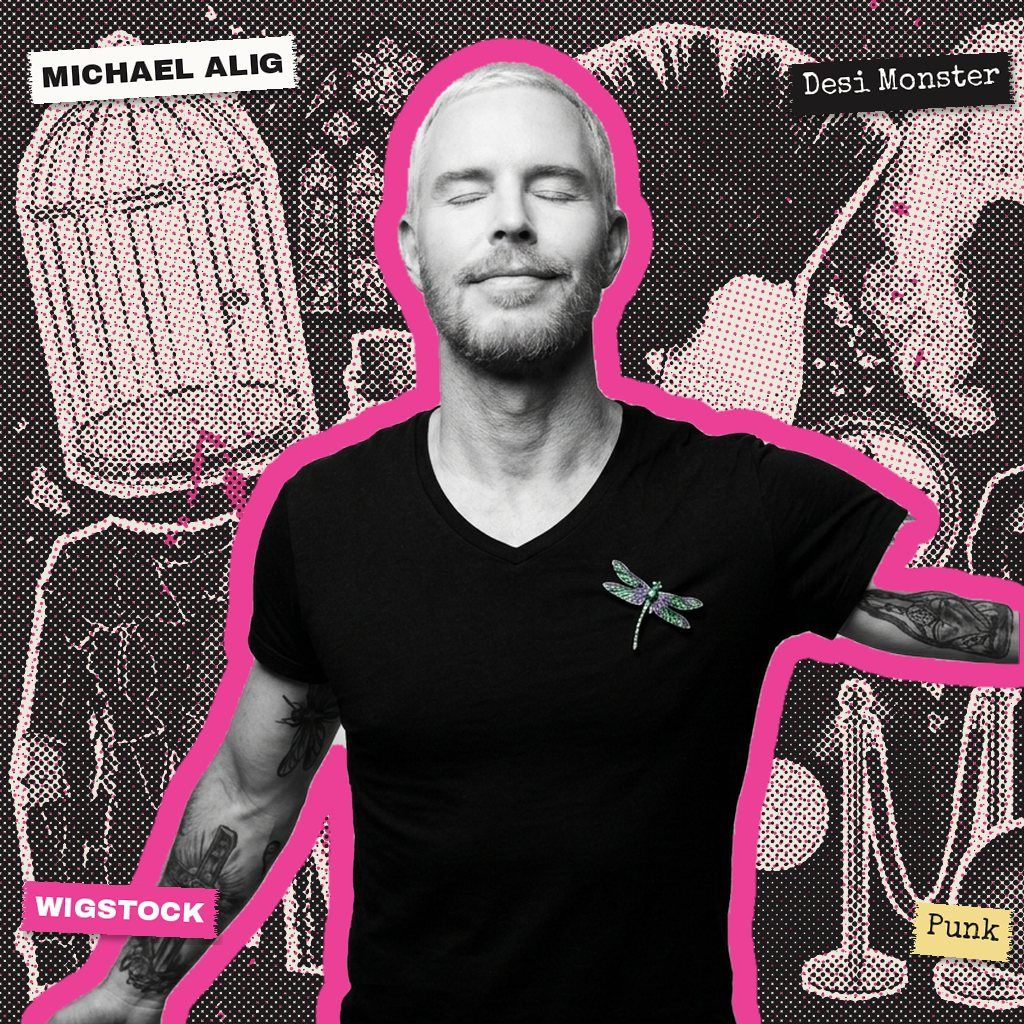
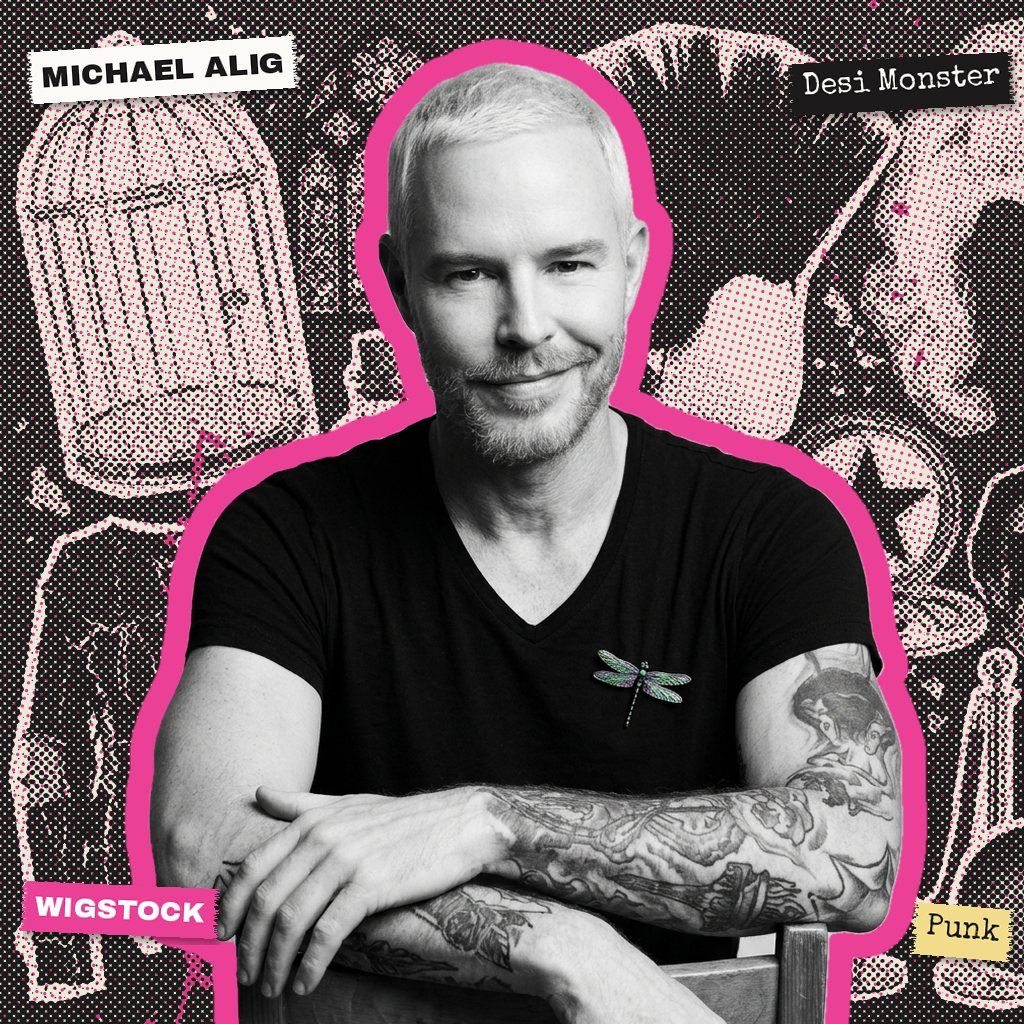
S01E06: new Waltpaper polaroid pose (backwards on a chair)
Claude-Session: https://claude.ai/code/session_011MVAnQFHQ9Wv2cvGWey2uC

diff --git a/AGENTS.md b/AGENTS.md
@@ -74,7 +74,7 @@
 - Tips (Tipeee - Lisa 22 Oct 2026: back from Ko-fi because Tipeee takes cards through Adyen, an EU payment company): the TipBox (src/components/tip-box.tsx, TIPEEE_URL = https://en.tipeee.com/afterparty) sits in SiteFooter on every page, on the right with all the footer text on the left (no heading or text next to the box; on phones the box goes under the text) (id="tip"; no "Tip the fan page" text link in the footer - Lisa removed it, 23 Oct) - no separate boxes on Home or About. The box (Lisa, 23 Oct) uses the design first made for Ko-fi: the round pink cocktail badge (src/assets/afterparty-drink-badge.png - never Lisa's face), "Buy a drink for the Afterparty team", "Once / or monthly", "Any amount - you choose it on Tipeee", a pink "tip!" button that is a plain link, and the small Tipeee/fan-project line under the box. Never load Tipeee scripts, iframes or widgets (Privacy section 4, Terms quick facts and Under the hood describe it that way). Ko-fi is no longer used on the site.
 - Buttons and chips (Lisa, 21 Oct): every filter/sort chip that sets aria-pressed (rounded-full) is solid black with white letters when selected ("All" pre-selected) and all pink with white letters on hover (global rules in styles.css). Afterparty-page episode buttons (Lisa, 23 Oct): Afterparty is solid pink, Watch / Listen are black with white letters; on hover all three turn to paper with black text (plain links - never wrap them in the ghost Button, whose hover:bg-transparent made the white text vanish).
 - Polaroids (Lisa, 22 Oct 2026): every guest, from now on every new episode too, gets a polaroid. 1) A new-style Gemini studio portrait (from a WOW screenshot, re-drawn, a different pose each time, black and white with ONE element in colour, never name the guest in the prompt) saved as "<code> <Guest> box portrait.jpeg". 2) scripts/polaroid-box.py makes the square photo: a pink/black halftone of that episode's own objects-only references collage, torn scraps typed with its top references (no hosts), the portrait cut out with a 24px pink sticker edge; where the portrait has a clean straight cut on a side (the figure runs out of its own picture), that cut lines up with the photo's edge with no pink outline there - both sides cut: edge to edge (Lisa, 22 Oct 2026, automatic in the script). 3) scripts/polaroid-frame.py frames it as an instant print (name, one guest description line, "<CODE> · THE AFTERPARTY"). Save BOTH ("<code> <Guest> polaroid photo.jpg" and "<code> <Guest> polaroid.jpg") in the episode folder AND in the "Polaroids" folder of the project folder. The square photo is the episode box on Home and the Afterparty page - and the polaroid box keeps everything the old box showed: season/episode line, guest name, runtime, references (pink) and mentions (marker yellow), written in the white strip under the photo (Lisa, 22 Oct); the framed print is a keepsake kept in the folders (the Tipeee thank-you gift idea is dropped for now - Lisa, 22 Oct; don't build it). The framed print carries the guest line from scripts/episode-guests.json ("line", taken from the episode page header). Episode-page header in this style: ON HOLD (Lisa, 22 Oct) - the background generator needs work first; keep page headers picture-free.
-- No repeated poses (Lisa, 26 Oct 2026, every guest from now on): before writing a new portrait prompt, look at all existing polaroids side by side (a contact sheet of src/assets/polaroid-*.jpg) and pick a pose that is clearly different from every one of them. Hand on chin / cheek / face is USED UP (James, Nick Egan, Patricia Field, Peter Gatien, Sally Randall, William Norwich, Joey Arias, Chi Chi Valenti, Lisa Edelstein) - always add "no hand touching the face or chin" to the prompt. Poses already taken, never repeat exactly: hand in hair (Amanda, Dianne), camera to the eye (Makos), arms crossed (Musto), pointing at the camera (Michelangelo), waving (Richie), finger on the glasses (Larry), hands framing the face (Susanne), looking back over the shoulder, hands at a necklace, close-up (Zaldy), glamour close-up, chin slightly lifted with a knowing half-smile, bare shoulders in a white feather boa (Michelle Visage), arms spread wide like dragonfly wings, eyes closed (Waltpaper), straight-on head and shoulders (Ann, Eric, Michael Schmidt, Rudolf). Add each new guest's pose to this list.
+- No repeated poses (Lisa, 26 Oct 2026, every guest from now on): before writing a new portrait prompt, look at all existing polaroids side by side (a contact sheet of src/assets/polaroid-*.jpg) and pick a pose that is clearly different from every one of them. Hand on chin / cheek / face is USED UP (James, Nick Egan, Patricia Field, Peter Gatien, Sally Randall, William Norwich, Joey Arias, Chi Chi Valenti, Lisa Edelstein) - always add "no hand touching the face or chin" to the prompt. Poses already taken, never repeat exactly: hand in hair (Amanda, Dianne), camera to the eye (Makos), arms crossed (Musto), pointing at the camera (Michelangelo), waving (Richie), finger on the glasses (Larry), hands framing the face (Susanne), looking back over the shoulder, hands at a necklace, close-up (Zaldy), glamour close-up, chin slightly lifted with a knowing half-smile, bare shoulders in a white feather boa (Michelle Visage), sitting backwards on a chair, forearms crossed on the chair back (Waltpaper), straight-on head and shoulders (Ann, Eric, Michael Schmidt, Rudolf). Add each new guest's pose to this list.
 - Wardrobe (/wardrobe) and Pub Quiz (/quiz) are UNLINKED for now (Lisa, 22 Oct 2026: need more work): the pages stay and open by URL, but they are out of the top menu, search, sitemap (staticData.sitemap: false), the home "More to explore" tiles and the contact/guestbook dropdowns - all driven by UNLINKED_PAGES in src/lib/pages.ts. Do not link them again until Lisa says so.
 - Episode boxes are POLAROIDS (live since 22 Oct 2026): the Polaroid component in src/components/episode-block.tsx (Home EpisodeCard and the Afterparty page EpisodeBlock) shows src/assets/polaroid-<slug>.jpg (the square polaroid photo from scripts/polaroid-box.py, 1024px JPEG ~80), the season line, name, the guest line from src/data/guest-lines.ts, and references (pink) / mentions (yellow). Styles: .polaroid / .polaroid-photo in src/styles.css. A new episode adds its polaroid asset to episodePortraits and its line to guest-lines.ts (and scripts/episode-guests.json). The old block-*.jpg box pictures are no longer used.
 - Chips (Lisa, 23 Oct 2026): every rounded name/year chip link (A–Z cards, Guests, Timeline, Map, Network, Afterparty page) turns pink with white text on hover. The Afterparty page's top-name chips link to each name's A–Z card. Year chips on episode pages ("1977: Studio 54 opens") link to /timeline#ev-<event id>; the Timeline shows every decade, scrolls to that event and outlines it in pink - every Timeline event keeps id="ev-<id>".
